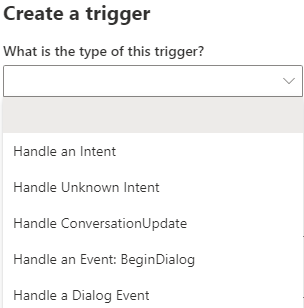
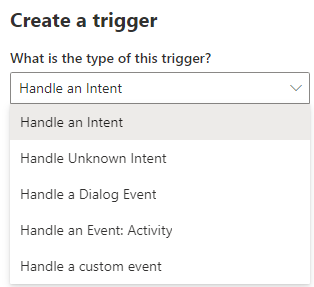
updates-UI/LG-change

diff --git a/docs/howto-defining-triggers.md b/docs/howto-defining-triggers.md
@@ -3,54 +3,21 @@ Each dialog in Composer includes a set of triggers/event handlers that contain i
 
 | Trigger Type       | Description   |  
 | -------------------- |-------------- |
-| `Handle ConversationUpdate`    |  handle specialized events such as sending a greeting |
-|`Handle an Event: BeginDialog` |  define the actions to take when a dialog is started via `BeginDialog()`|
-| `Handle a Dialog Event`      | define a rule for an event which is triggered by some source|
 | `Handle an Intent`       | define the actions to take when an **Intent** is recognized (and optionally **entities**) |
 | `Handle Unknown Intent`       | define the actions to taken when no intent is recognized  |
+| `Handle a Dialog Event`      | define a rule for an event which is triggered by some source|
+| `Handle an Event: Activity`    | define actions to handle an activity event such as `ConversationUpdate` |
+|`Handle a custom event` |    |
 
 ## Prerequisites 
-- Basic knowledge of events and triggers (events and triggers concept article)
 - Bot Framework Composer 
+- Basic knowledge of events and triggers ([events and triggers concept article](https://github.com/microsoft/BotFramework-Composer/blob/kaiqb/Ignite2019/docs/concept-events-and-triggers-draft.md))
 - LUIS authoring key ([where to find](https://docs.microsoft.com/en-us/azure/cognitive-services/luis/luis-concept-keys?tabs=V2#programmatic-key))
-
-## Defining `Handle ConversationUpdate`
-
-`Handle ConversationUpdate` is a type of trigger to handle specialized events such as sending a greeting message when a bot runs. It is used to do something immediately when a bot starts and before any other events are triggered. The following steps show how to define a `Handle ConversationUpdate` trigger in the main dialog to send a "welcome" message right after the bot runs. 
-
-### 1. Create a `Handle ConversationUpdate` trigger
-In the dialog menu, click **New Trigger** and select **Handle ConversationUpdate** option from the drop-down menu. Define the name for the trigger such as **welcome** and then click **submit**. 
-
-![events_triggers](./media/events_triggers/conversationupdate1.gif)
-
-### 2. Add an action node to the trigger
-In the `Handle ConversationUpdate` trigger, click the "+" sign to add the action node you want to include. For example, let's click **Send Messages** and then **Send an Activity** to send a welcome message. You can define response messages following the [.LG file format](https://github.com/microsoft/BotBuilder-Samples/blob/master/experimental/language-generation/docs/lg-file-format.md) in the language generation editor. 
-
-![events_triggers](./media/events_triggers/conversationupdate2.gif)
 
 ## Defining `Handle an Intent`
 `Handle an Intent` defines the actions to take when an **Intent** is recognized (and optionally **entities**). To create a `Handle an Intent` trigger, you need to define the intents in the dialog with either LUIS recognizer or RegEx recognizer (this must be done before creating a `Handle an Intent` trigger) Please refer to the [events and triggers concept]() article for steps to define an intent with LUIS recognizer and RegEx recognizer. 
-<!-- 
-### Defining an intent with LUIS recognizer (two steps)
-1. Set up the intent recognizer. On the right side of the Composer menu, select **LUIS**(default) as the Recognizer Type.
 
-![setup_LUIS_recognizer](./media/events_triggers/setup_LUIS_recognizer.png)
-
-2. Author intent and examples utterances following the [.LU file format](https://github.com/microsoft/botbuilder-tools/blob/master/packages/Ludown/docs/lu-file-format.md)
-  
-![author_LUIS_intent](./media/events_triggers/author_LUIS_intent.gif)
-    
-### Defining an intent with RegEx recognizer (two steps)
-
-1. Set up the intent recognizer. On the right side of the Composer menu, select **Regular Expression** as the Recognizer Type.
-
-![setup_RegEx_recognizer](./media/events_triggers/setup_RegEx_recognizer.png)
-
-2. Author intent and pattern following [Regular Expression](https://regexr.com/)
-   
-![setup_LUIS_recognizer](./media/events_triggers/setup_LUIS_recognizer.png) -->
-
-Following the step to define the `Handle an Intent` trigger: 
+Following the steps to define a `Handle an Intent` trigger: 
 
 ### 1. Create a `Handle an Intent` trigger
 On the left side of the Composer, click **New Trigger** on the menu. Select **Handle an Intent** option from the drop-down menu. Define a name for the trigger and click **submit**. 
@@ -80,15 +47,29 @@ You need to:
 
 You can refer to the [Cards_Samples](https://github.com/microsoft/BotFramework-Composer/tree/master/SampleBots/Cards_Samples/ComposerDialogs) to learn more about how to define and use `Handle an Intent` to model your bot's converation. 
 
-## Defining `Handle an Event: BeginDialog`
-`Handle an Event: BeginDialog` defines the actions to take when a dialog is started via `BeginDialog()`. 
+## Defining `Handle a Dialog Event`
 
 Most dialogs will include an event handler configured to respond to the `BeginDialog` event, which fires when the dialog begins and allows the bot to respond immediately. When you create a new child dialog, the `Handle an Event: BeginDialog` trigger is initialized by default. Like any other type of triggers, you can define actions to take in the `Handle an Event: BeginDialog` trigger.  
 
-## Defining `Handle a Dialog Event`
-`Handle a Dialog Event` defines a rule for an event which is triggered by some source. 
+## Defining `Handle an Event: Activity`
+
+`Handle an Event: Activity` is a type of trigger to handle activity events such as sending a greeting message when a bot runs. It is used to do something immediately when a bot starts and before any other events are triggered. The following steps show how to define a `Handle an Event: Activity` trigger to handle a `ConversationUpdate` activity in a dialog to send a "welcome" message. 
+
+### 1. Create a `Handle ConversationUpdate` trigger
+In the dialog menu, click **New Trigger** and select **Handle ConversationUpdate** option from the drop-down menu. Define the name for the trigger such as **welcome** and then click **submit**. 
+
+![events_triggers](./media/events_triggers/conversationupdate1.gif)
+
+### 2. Add an action node to the trigger
+In the `Handle ConversationUpdate` trigger, click the "+" sign to add the action node you want to include. For example, let's click **Send Messages** and then **Send an Activity** to send a welcome message. You can define response messages following the [.LG file format](https://github.com/microsoft/BotBuilder-Samples/blob/master/experimental/language-generation/docs/lg-file-format.md) in the language generation editor. 
+
+![events_triggers](./media/events_triggers/conversationupdate2.gif)
+
+## Defining `Handle a Custom Event`
+TBD
 
 ## References
+- [Events and Triggers](https://github.com/microsoft/BotFramework-Composer/blob/kaiqb/Ignite2019/docs/concept-events-and-triggers-draft.md)
 
 
 ## Next 

diff --git a/docs/concept-events-and-triggers-draft.md b/docs/concept-events-and-triggers-draft.md
@@ -11,7 +11,7 @@ There are several different types of event handlers available in Composer. They 
 
 ### Handle Dialog Events  
 
-The base type of event handlers are dialog event handlers. Almost all events start as dialog events which are related fo the "lifecycle" of the dialog. Currently, there are two dialog event handlers in the Composer menu: `Handle a Dialog Event` and `Handle an Event: BeginDialog`. Most dialogs will include an event handler configured to respond to the `BeginDialog` event, which fires when the dialog begins and allows the bot to respond immediately. 
+The base type of event handlers are dialog event handlers. Almost all events start as dialog events which are related to the "lifecycle" of the dialog. Currently, there is one dialog event handler in the Composer menu: `Handle a Dialog Event`, under which there are four types of events to choose: `Handle an Event: BeginDialog`, `Handle an Event: CancelDialog`, `Handle a dialog error event`, `Handle an Event: RepromptDialog`. Most dialogs will include an event handler configured to respond to the `BeginDialog` event, which fires when the dialog begins and allows the bot to respond immediately. 
 
 Use dialog event handlers when you want to do things like:
 
@@ -20,8 +20,8 @@ Use dialog event handlers when you want to do things like:
     - Take automatic action on every message as it is received or sent
     - Evaluate the raw content of the incoming activity
 
-> [!NOTE]
-> Since `BeginDialog` event is the most common dialog event, `Handle an Event: BeginDialog` is desgined as a seperate dialog event handler to make it handy when users want to use it. 
+<!-- > [!NOTE]
+> Since `BeginDialog` event is the most common dialog event, `Handle an Event: BeginDialog` is desgined as a seperate dialog event handler to make it handy when users want to use it.  -->
 
 ### Handle Intent Events  
 
@@ -33,9 +33,14 @@ Use intent handlers when you want to do things like:
     - Recognize common interuptions like "help" or "cancel" and provide context-specific responses
     - Extract and use entity values as parameters to your dialog or a child dialog
 
-### Handle Specialized Events 
+### Handle Activity Events 
 
-There are some event handlers used to handle specialized events, such as `Handle ConversationUpdate`. This event handler tracks the event when a user first joins the chat and is usually used to send a greeting. This specialized option is provided to avoid handling an event with a complex condition attached. 
+There are some event handlers used to handle activities, such as  `Handle an Event: Activity`. The activities to be handled include `Handle ConversationUpdate`, which is a specialized event handler that tracks the event when a user first joins the chat and is usually used to send a greeting. When you build a new bot, the `Handle ConversationUpdate` event handler is initialized by default in the main dialog you create. This specialized option is provided to avoid handling an event with a complex condition attached. The screenshot below shows all the activity event handlers provided in Composer. 
+
+![activity_event_handler](./media/events_triggers/activity_event_handler.png)
+
+### Handle Custom Events 
+TBD
 
 ## Anatomy of an Event Handler
 
@@ -63,15 +68,11 @@ To define triggers with LUIS recognizer you need to:
 2. In the language understanding editor, create **intents** with sample utterances and follow the [.lu format file](https://github.com/Microsoft/botbuilder-tools/blob/master/packages/Ludown/docs/lu-file-format.md#lu-file-format). 
 Each intent contains a series of sample utterances which will be used as training data in LUIS to recognize the intent. 
 
-    <p align="left">
-        <img alt="LUIS_intent" src="./media/events_triggers/LUIS_intent.png" style="max-width:300px;" />
-    </p>
+![LUIS_intent](./media/events_triggers/LUIS_intent.png)
 
-3. Define `Handle an Intent` as `New Triggers`for each intent and configure each `Handle an Intent` trigger with specific intent. 
-   
-    <p align="left">
-        <img alt="BookFlight_configure" src="./media/events_triggers/BookFlight_configure.png" style="max-width:300px;" />
-    </p>
+3. Define `Handle an Intent` as `New Triggers` for each intent and configure each `Handle an Intent` trigger with specific intent. 
+
+![BookFlight_configure](./media/events_triggers/BookFlight_configure.png)
 
 In addition to specifying intents and utterances, it is also possible to train LUIS to recognize named entities and patterns. Read more about the full capabilities of LUIS recognizers [here](https://github.com/microsoft/botbuilder-tools/blob/master/packages/Ludown/docs/lu-file-format.md). 
 
@@ -95,11 +96,9 @@ To define triggers with Regular Expression recognizer you need to:
 1. On the right side of the Composer menu, choose **Regular Expression** as recognizer type
 2. In the language understanding editor, create [Regular Expression](https://regexr.com/) **intents** and **pattern**. 
 
-    <p align="left">
-        <img alt="regular_expression_recognizer" src="./media/events_triggers/regular_expression_recognizer.png" style="max-width:300px;" />
-    </p>
+![regular_expression_recognizer](./media/events_triggers/regular_expression_recognizer.png)
 
-3. Define `Handle an Intent` as `New Triggers`for each intent and configure each `Handle an Intent` trigger with specific intent as shown in the last step of defining LUIS recognizer. 
+3. Define `Handle an Intent` as a`New Trigger` for each intent and configure each `Handle an Intent` trigger with specific intent as shown in the last step of defining LUIS recognizer. 
 
 ## References
 

diff --git a/docs/concept-dialog-draft.md b/docs/concept-dialog-draft.md
@@ -5,7 +5,7 @@
  Building a bot using Bot Composer is a brand new dialog authoring experience without the need to write any code. Dialogs in Bot Composer support building a pluggable and extensible dialog system because they integrate all the constructing blocks of bot functionality. These building blocks inlcude programming code, custom business logic, cloud API, training data for language processing systems, etc. Dialogs as components in Bot Composer will help users focus on the model of the conversation rather than the mechanics of dialog management.  
 
 ## Types of Dialogs  
-There are two types of Dialogs in Bot Composer: main dialog and dhild dialog. Creating a Dialog in Bot Composer is to define an conversation objective. Main dialog is initialized by default when you create a new bot and it has a **.Main** suffix with the name you define for the new bot. After the main dialog is created, you can create child dialogs when necessary. Each bot has one main dialog but can have multiple child dialogs or no child dialog. The following screenshot shows how to: 
+There are two types of Dialogs in Bot Composer: main dialog and dhild dialog. Creating a Dialog in Bot Composer is to define an conversation objective. Main dialog is initialized by default when you create a new bot and it has a **.Main** suffix with the name you define for the new bot. After the main dialog is created, you can create children dialogs when necessary. Each bot has one main dialog but can have multiple children dialogs or no child dialog. The following screenshot shows how to: 
 - create a main dialog 
 - create a child dialog 
 - filter dialogs using **Filter Dialogs**
@@ -19,7 +19,7 @@ There are two types of Dialogs in Bot Composer: main dialog and dhild dialog. Cr
 At bot runtime, the main dialog is called into action and becomes an active dialog, triggering event handlers with pre-defined actions in the main dialog. As the conversation flows, a child dialog can be called by a main dialog, and then vice versa. Different child dialogs can be called with each other as well. 
 
 ## Anatomy of a Dialog 
-In Bot Composer, each dialog is a dialog class that contains a set of event handlers. Triggers are event handlers which can be triggered to handle different events. Currently, Bot Composer provides five different types of triggers in a dialog: `Handle an Intent`, `Handle Unknown Intent`, `Handle ConversationUpdate`, `Handle an Event: BeginDialog`, and `Handle a Dialog Event`. Most dialogs contain an event handler configured to respond to the `BeginDialog` event. Inside the `BeginDialog` event contain actions that should fire immediately every time the dialog starts. You can read the [Events and Triggers](https://github.com/microsoft/BotFramework-Composer/blob/kaiqb/Ignite2019/docs/concept-events-and-triggers-draft.md) concept article for more information on events and triggers in Composer. 
+In Bot Composer, each dialog is a dialog class that contains a set of event handlers. Triggers are event handlers which can be triggered to handle different events. Currently, Bot Composer provides five different types of triggers in a dialog: `Handle an Intent`, `Handle Unknown Intent`, `Handle a Dialog Event`, `Handle an Event: Activity`, and `Handle a Custom Event`. Most dialogs contain an event handler configured to respond to the `BeginDialog` event. Inside the `BeginDialog` event contain actions that should fire immediately every time the dialog starts. You can read the [Events and Triggers](https://github.com/microsoft/BotFramework-Composer/blob/kaiqb/Ignite2019/docs/concept-events-and-triggers-draft.md) concept article for more information on events and triggers in Composer. 
 
 ![event handlers](./media/dialog/eventhandlers.png)
 
@@ -48,8 +48,9 @@ A Dialog acts like a piece of the bot's functionality such as [**GetProfile**](h
 
 ![dialog_action](./media/dialog/dialog_action.png)
 
-We might need a how-to article documenting how to use each type of the dialog actions. 
+<!-- We might need a how-to article documenting how to use each type of the dialog actions.  -->
 
+Below is a list of all the Dialog actions provided in Composer. 
 
 | Dialog Action        | Description                                                                                                                      |
 | -------------------- | -------------------------------------------------------------------------------------------------------------------------------- |
@@ -61,7 +62,6 @@ We might need a how-to article documenting how to use each type of the dialog ac
 | Replace this Dialog  | An action which replaces the current dialog with the target dialog.                                                              |
 | Modify Active Dialog | A command to edit current dialog with `changeType` and Actions.                                                                  |
 
-
 ## References 
 [Dialogs library](https://docs.microsoft.com/en-us/azure/bot-service/bot-builder-concept-dialog?view=azure-bot-service-4.0)
 
@@ -70,4 +70,4 @@ We might need a how-to article documenting how to use each type of the dialog ac
 [Introduction to Bot Framework Composer](https://github.com/microsoft/BotFramework-Composer/blob/master/docs/introduction_to_bfd.md)
 
 ## Next 
-[Events and Triggers](https://github.com/microsoft/BotFramework-Composer/blob/master/docs/triggers_and_events.md)
+[Events and Triggers](https://github.com/microsoft/BotFramework-Composer/blob/kaiqb/Ignite2019/docs/concept-events-and-triggers-draft.md)

diff --git a/docs/concept-language-genereation-draft.md b/docs/concept-language-genereation-draft.md
@@ -159,7 +159,8 @@ To aid with contextual re-usability, templates can be parametrized. With this di
     - {user.name} [Greeting]
     
 #### Structured template  
-- Will update when structured template is available. 
+- [Example 1](https://github.com/microsoft/botbuilder-dotnet/blob/master/tests/Microsoft.Bot.Builder.LanguageGeneration.Tests/Examples/StructuredTemplate.lg)
+- [Example 2](https://github.com/microsoft/botbuilder-dotnet/blob/master/tests/Microsoft.Bot.Builder.Dialogs.Adaptive.Templates.Tests/lg/NormalStructuredLG.lg)
  
 ### Common Expression Cheatsheet 
 
